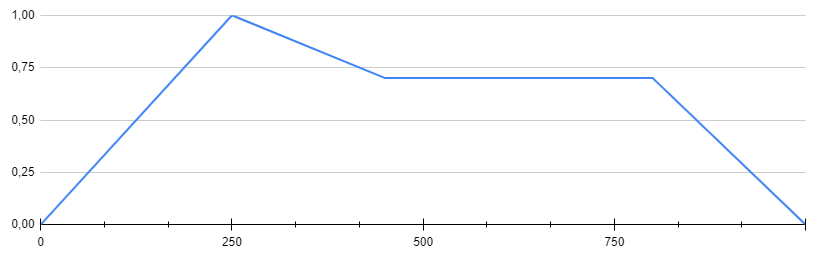
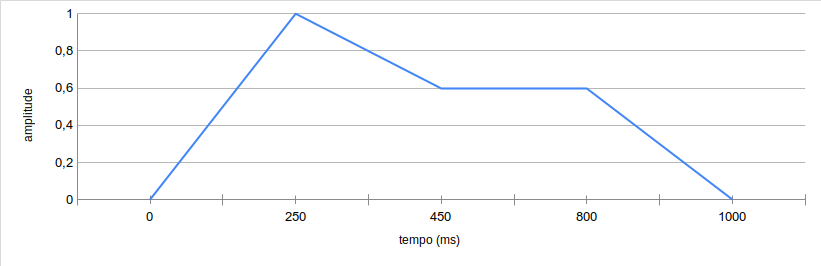
Revisão de filtros

diff --git a/filtros.html b/filtros.html
@@ -10,172 +10,154 @@
 <body onload="numPages()">
     <header>
         <a href="index.html">Sintetizador</a>
-        <a id="sobre" href="sobre.html">Sobre</a>
+        <a id="sobre" href="sobre.html">Sobre/About</a>
     </header>
     <div id="principal">
         <div id="conteudo">
             <h1>Filtros</h1>
-            <p>Filtros são de forma geral, ferramentas para manipular sinais. Qualquer 
+            <p>Filtros são, de forma geral, ferramentas para manipular sinais. Qualquer 
                 dispositivo que modifique um sinal em qualquer forma é tecnicamente um 
-                filtro. Entretanto, ao se referir a um filtro, normalmente se referem 
-                ao tipo de filtro que modificam o conteúdo harmônico do sinal, alterando 
-                as características do áudio no domínio da frequência. Esse é o sentido 
-                que usaremos para o termo “filtro” neste artigo.
+                filtro. Entretanto, normalmente nos referimos a filtro que modificam o conteúdo harmônico de sinais,
+                alterando as características do áudio no domínio da frequência. São tecnicamente chamados
+                de filtros seletores de sinais. Esse é o sentido que usaremos para o termo filtro nesta página.
             </p>
             <p>
-                Filtros permitem que você selecione uma faixa de frequências em um som, 
-                e amplifique ou reduza essas frequências. Diminuindo frequências altas 
-                ou aumentando frequências baixas em um som, fazendo com que soem abafadas. 
+                Filtros permitem que você selecione uma faixa de frequências em um som 
+                e amplifique ou reduza a energia nessas frequências. Podemos diminuir frequências altas 
+                ou aumentar frequências baixas em um som, fazendo com que o som resultante fique abafado. 
                 Filtros desse tipo acontecem na vida real o tempo todo. Por exemplo, 
-                se você tentar falar com alguém com algo cobrindo sua boca, parte da alta 
+                se você tentar falar com algo cobrindo sua boca, parte da alta 
                 frequência da sua voz será filtrada pelo obstáculo, deixando sua voz abafada.
             </p>
             <h2>Filtros passa-baixa e passa-alta</h2>
             <p>Um filtro passa-baixa permite com que baixas frequências atravessem o 
-                filtro, enquanto barrando frequências altas, te permitindo escutar 
-                apenas as baixas frequências. Enquanto isso, o filtro passa-alta faz 
-                exatamente o contrário, permitindo apenas a passagem de altas 
-                frequências enquanto barrando as baixas. O ponto a partir de onde 
-                começa a barragem é chamado de “frequência de corte”.
+                filtro, enquanto diminui a energia em frequências altas, te permitindo escutar 
+                melhor apenas as baixas frequências. O filtro passa-alta faz 
+                exatamente o contrário, permitindo a passagem de altas 
+                frequências enquanto diminui a energia das baixas. O ponto a partir de onde 
+                começa o efeito de diminuição da energia é chamado de “frequência de corte”.
             </p>
-            <img src="IMG/filtro01.png" alt="">
-            <img src="IMG/filtro02.png" alt="">
+            <img src="IMG/filtro01.png" alt="Filtro passa-baixa">
+            <img src="IMG/filtro02.png" alt="Filtro passa-alta">
             <h2>Filtros passa-faixa e rejeita-faixa</h2>
             <p>
                 Um filtro passa-faixa é como um passa-baixa e um passa-alta usados em 
-                combinação para isolar um grupo de frequências selecionado para passar, 
-                enquanto barrando todas as outras frequências. O filtro rejeita-faixa 
+                combinação para deixar passar apenas um grupo de frequências selecionado, 
+                enquanto diminui a energia em todas as outras frequências. O filtro rejeita-faixa 
                 funciona de maneira oposta ao passa-faixa, selecionando um grupo para 
-                isolar e NÃO permitir a passagem, enquanto todas as outras frequências 
+                isolar e não permitir a passagem, enquanto todas as outras frequências 
                 podem passar.
             </p>
-            <img src="IMG/filtro03.png" alt="">
-            <img src="IMG/filtro04.png" alt="">
-            <h2>Propriedades dos filtros</h2>
-            <p>
-                Esses filtros possuem uma grande variedade de propriedades na qual 
-                possuímos um certo grau de controle. Para filtros passa-baixa e 
-                passa-alta podemos mudar a frequência de corte, permitindo o controle 
-                do alcance das frequências afetadas. Para filtros passa-faixa e 
-                rejeita-faixa, no lugar de mudar a frequência de corte, podemos mudar 
-                a largura de banda onde se encontra a faixa de frequência afetada.
-            </p>
-            <p>
-                Vários filtros permitem mudanças na ressonância. A ressonância ocorre quando 
-                quando um som na banda passante perto da frequência de corte é mandado de 
-                volta ao filtro conforme ele sai, gerando um feedback. Esse feedback afeta o 
-                volume dessas frequências, assim como o timbre do som. Um pedal wah-wah é um 
-                filtro passa-baixa ressonante com um pedal controlando a frequência de corte.
-            </p>
-            <div id="filtroimagem">
-                <img class="blocomodulator" src="IMG/filtro05.png" alt="">
-                <img class="blocomodulator" src="IMG/filtro06.png" alt="">
-            </div>
+            <img src="IMG/filtro03.png" alt="Filtro passa-faixa">
+            <img src="IMG/filtro04.png" alt="Filtro rejeita-faixa">
+  
             <p>
                 Vamos adicionar um módulo de filtro passa-baixa ao nosso sintetizador. 
-                Colocaremos ele entre os osciladores e nosso amplificador controlado por 
-                tensão. Dependendo de como controlarmos ele, esse filtro pode fazer 
-                vários tipos de mudanças ao nosso som, como diminuir um pouco o agudo das 
-                frequências altas assim como vários outros efeitos especiais.
+                Ele ficará entre o oscilador e nosso amplificador controlado por 
+                tensão. Dependendo da forma de controle, esse filtro pode fazer 
+                vários tipos de mudanças no som, como diminuir um pouco o agudo das 
+                frequências altas assim como vários efeitos especiais.
             </p>
-		<img src="IMG/diagrama03.png" alt="">
+		<img src="IMG/diagrama03.png" alt="Sintetizador com filtro passa-baixa">
 	    <p>
-		Na imagem a seguir, foi adicionado nosso filtro a montagem no modulator,
-		permitindo um controle das frequências, e possuindo parâmetros que permitem
-		a mudança na frequência de corte e de ressonância, assim como o tipo de filtro.
+		No Modulator, temos a mesma configuração: o filtro depois do bloco <i>Osc</i>. 
+
 	    </p>
-		<img class="modulator" src="IMG/Filtromod.PNG" alt="">
+		<img class="modulator" src="IMG/Filtromod.PNG" alt="Filtro no Modulator">
             
             <h2>Sinais de controle</h2>
             <p>Para que tenhamos o melhor do nosso sintetizador, precisamos de uma 
                 maneira de controlar cada um dos seus componentes de forma interna. 
-                enquanto vários sintetizadores tem uma variedade de botões para 
-                controlar o som, a maioria das pessoas tem apenas duas mãos, e é 
-                realmente complicado girar mais de dois potenciômetros ao mesmo 
-                tempo para ajustes. Por sorte, quase todo módulo do sintetizador 
+                Enquanto sintetizadores físicos tem uma variedade de botões para 
+                controlar o som, é realmente complicado girar mais de dois potenciômetros ao mesmo 
+                tempo para ajustes. Por sorte, quase todo módulo de um sintetizador 
                 pode ser controlado por outro módulo. Nosso sintetizador já faz isso, 
-                a frequência do oscilador e o volume do nosso amplificador de tensão 
-                são controlados pelo nosso teclado.
+                a frequência do oscilador e o volume do amplificador de tensão 
+                são controlados pelo teclado.
             </p>
             <h2>Envelope generators</h2>
-            <p>Uma forma que podemos controlar sinais com um sintetizador é usando um 
-                módulo chamado envelope generator. Quando um envelope generator recebe 
-                um sinal “on”, ele manda um novo sinal que pode ser usado para controlar 
+            <p>Uma forma de controlar sinais em um sintetizador é usando um 
+                módulo chamado <i>envelope generator</i> ou gerador de envelope.
+                Quando ele recebe um sinal “on”, ou seja, é ativado, manda um novo sinal que pode ser usado para controlar 
                 outro módulo. Diferente de um oscilador, que repete seu sinal várias 
-                vezes, um envelope generator manda seu sinal apenas uma vez. Mas assim 
+                vezes, um gerador de envelope manda seu sinal apenas uma vez. Mas assim 
                 como um oscilador, podemos olhar o sinal produzido em um gráfico no 
                 domínio do tempo.
             </p>
-            <img src="IMG/envelope.png" alt="">
-            <p>Para cada fração de segundo que o envelope generator estiver ativo, 
-                ele manda um sinal de controle para outro módulo. Uma forma de pensar 
-                no envelope generator é como um mapa para controle automático dos 
+            <img src="IMG/envelope.png" alt="Envelope generator">
+            <p>Uma forma de pensar no gerador de envelope é como um mapa para controle automático dos 
                 módulos. Por exemplo, o envelope da imagem acima começa a mandar um 
                 sinal que gradualmente move de zero até um, que é como girar um 
-                potenciômetro da posição mais à esquerda para a mais a direita. E em 
-                seguida o sinal desce gradualmente até o 0.7, que seria como mover o 
-                potênciometro um pouco para esquerda.
+                potenciômetro da posição mais à esquerda para a mais à direita. E em 
+                seguida o sinal desce gradualmente até 0,6, que seria como mover o 
+                potenciômetro um pouco para esquerda. Fica nesse valor um certo tempo e depois vai gradualmente a zero.
+                Se esse envelope ou envoltória fosse usado para controlar a amplitude de um VCA,
+                ouviríamos um som aumentando gradualmente, depois diminuindo um pouco, mantendo-se por um
+                certo tempo até voltar a zero.
             </p>
-            <p>Envelopes como o usado como exemplo aqui são chamados ADSR envelopes, 
-                tendo esse nome devido aos quatro estágios que possuem: Ataque, 
-                decaimento, sustentação e repouso.
+            <p>Envelopes como o desse exemplo aqui são chamados <i>ADSR envelopes</i>, 
+                tendo esse nome devido aos quatro estágios que possuem: ataque, 
+                decaimento, sustentação e repouso (do inglês <i>attack, decay, sustain, and release</i>) .
                 Quando colocamos um módulo ADSR em um sintetizador, especificamos o 
                 que deve acontecer durante cada estágio assim que receber o sinal “on”.
-                 Por exemplo, o envelope acima possui um estágio de ataque que demora 
-                 250 milissegundos, onde o nível se eleva a 1. depois disso possui o 
-                 estágio de decaimento, demorando 200 milissegundos onde o nível 
-                 diminui para 0.7, durante o estágio de sustentação o nível se mantém 
-                 em 0.7 enquanto o envelope generator estiver recebendo o sinal “on” e 
-                 quando o sinal muda para “off” entramos no estágio de repouso, onde 
-                 demora 200 milissegundos para o nível descer a 0.
+                Por exemplo, o envelope acima possui um estágio de ataque que demora 
+                250 milissegundos, onde o nível se eleva a 1. Depois disso, possui o 
+                estágio de decaimento, demorando 200 milissegundos onde o nível 
+                diminui para 0,6. Durante o estágio de sustentação o nível se mantém 
+                em 0,6 enquanto o gerador de envelope estiver recebendo o sinal “on”.
+                Quando o sinal muda para “off”, entramos no estágio de repouso, em que 
+                demora 200 milissegundos para o nível descer a 0.
             </p>
             <p>
                 Envelopes ADSR são frequentemente usados para controlar o volume de um 
-                som, mesmo eles podendo ser usados para controlar quase tudo dentro 
+                som, mesmo que possam ser usados para controlar quase tudo dentro 
                 de um sintetizador modular. Por exemplo, o mesmo envelope pode 
                 controlar um filtro passa-baixa ressonante, fazendo um efeito de 
                 um “woosh” conforme tocamos cada nota.
             </p>
             <p>
                 Vamos adicionar um ADSR para o nosso sintetizador, ele irá fazer o som 
-                ter um fade-in gradual, sustentar, e então cair rapidamente. Para isso 
-                usaremos o módulo ADSR no modulator conectado ao input do nosso 
+                ter um <i>fade-in</i> gradual, sustentar, e então cair rapidamente. Para isso 
+                usaremos o módulo ADSR no Modulator conectado à entrada do nosso 
                 amplificador.
             </p>
-            <img src="IMG/diagrama04.png" alt="">
+            <img src="IMG/diagrama04.png" alt="Sintetizador com envelope ADSR">
+
             <h2>Osciladores de baixa frequência</h2>
-            <p>Outro tipo de módulo frequentemente utilizado para controlar outro 
-                módulos é o oscilador de baixa frequência, também conhecido como LFO. 
+            <p>Um módulo que também é frequentemente usado para controlar parâmetros de outros 
+                módulos é o oscilador de baixa frequência, também conhecido como LFO (do inglês
+                <i>low frequency oscilator</i>). 
                 Um LFO é como um oscilador normal, podendo ter qualquer forma de 
-                onda e amplitude que especificarmos, mas possui uma frequência super 
-                baixa usada normalmente para controlar outros módulos no sintetizador. 
+                onda e amplitude que especificarmos, mas possui uma frequência muito 
+                baixa, usada normalmente para controlar outros módulos no sintetizador. 
                 Por exemplo, um LFO pode mover o nível de volume do amplificador para 
                 cima e para baixo, causando um efeito de tremolo. LFOs são como 
                 pequenos robozinhos que ficam girando os potenciômetros para você.
             </p>
             <p>Vamos adicionar um LFO para o nosso sintetizador que causa o tom do 
-                nosso oscilador para balançar para cima e para baixo um pouco, como 
-                um violinista move a mão para gerar um vibrato, também iremos usar 
-                o envelope generator para modular a frequência do nosso filtro, para 
+                nosso oscilador ser alterado para cima e para baixo um pouco, como 
+                um violinista move a mão para gerar um vibrato. Também iremos usar 
+                o gerador de envelope para modular a frequência do nosso filtro, para 
                 que tenhamos um efeito de varredura automáticamente em cada nota, 
-                especialmente se aumentarmos a ressonância do filtro. Usando um sinal 
-                de controle para mudar a frequência de outro módulo é chamado de 
+                especialmente se aumentarmos a ressonância do filtro. Usar um sinal 
+                de controle de baixa frequência para mudar a frequência de outro módulo é chamado de 
                 modulação de frequência, ou FM, como indicado no diagrama abaixo.
             </p>
-            <img src="IMG/diagrama05.png" alt="">
+            <img src="IMG/diagrama05.png" alt="Sintetizador com LFO">
 
 	    <p>
-		Na imagem a seguir, o ADSR foi adicionado ao modulator, nos dando
-		 controle sobre cada um dos 4 estágios discutidos anteriormente neste
-		 tutorial, permitindo um controle sobre os efeitos de aúdio.
+		Na imagem a seguir, um controle de envelope ADSR foi adicionado a um filtro no Modulator. Esse controle 
+        pode atuar sobre os parâmetros do filtro, por exemplo, sobre a frequência, fazendo que com o filtro
+        agora tenha frequência de corte variável. Qual o resultado? Liberdade de criar!
 	    </p>
-	    <img class="modulator" src="IMG/ADSRmod.PNG" alt="">
+	    <img class="modulator" src="IMG/ADSRmod.PNG" alt="ADSR no filtro">
             <h2>Conclusão</h2>
             <p>
                 Quase todos os sintetizadores disponíveis comercialmente e softwares 
-                de síntese musical operam usando esses principios básicos, com esse 
-                conhecimento e um pouco de ingenuidade, você nunca precisará usar 
-                um preset novamente.
+                de síntese musical operam usando esses princípios básicos. Com esse 
+                conhecimento e criatividade, você pode gerar sons fantásticos! Teste os Presets do Modulator
+                (tem sintetizador de sino, robô, espaço, ...) e faça suas experiências! Sintetizadores são ciência
+                e arte!
             </p>
         </div>
     </div>
